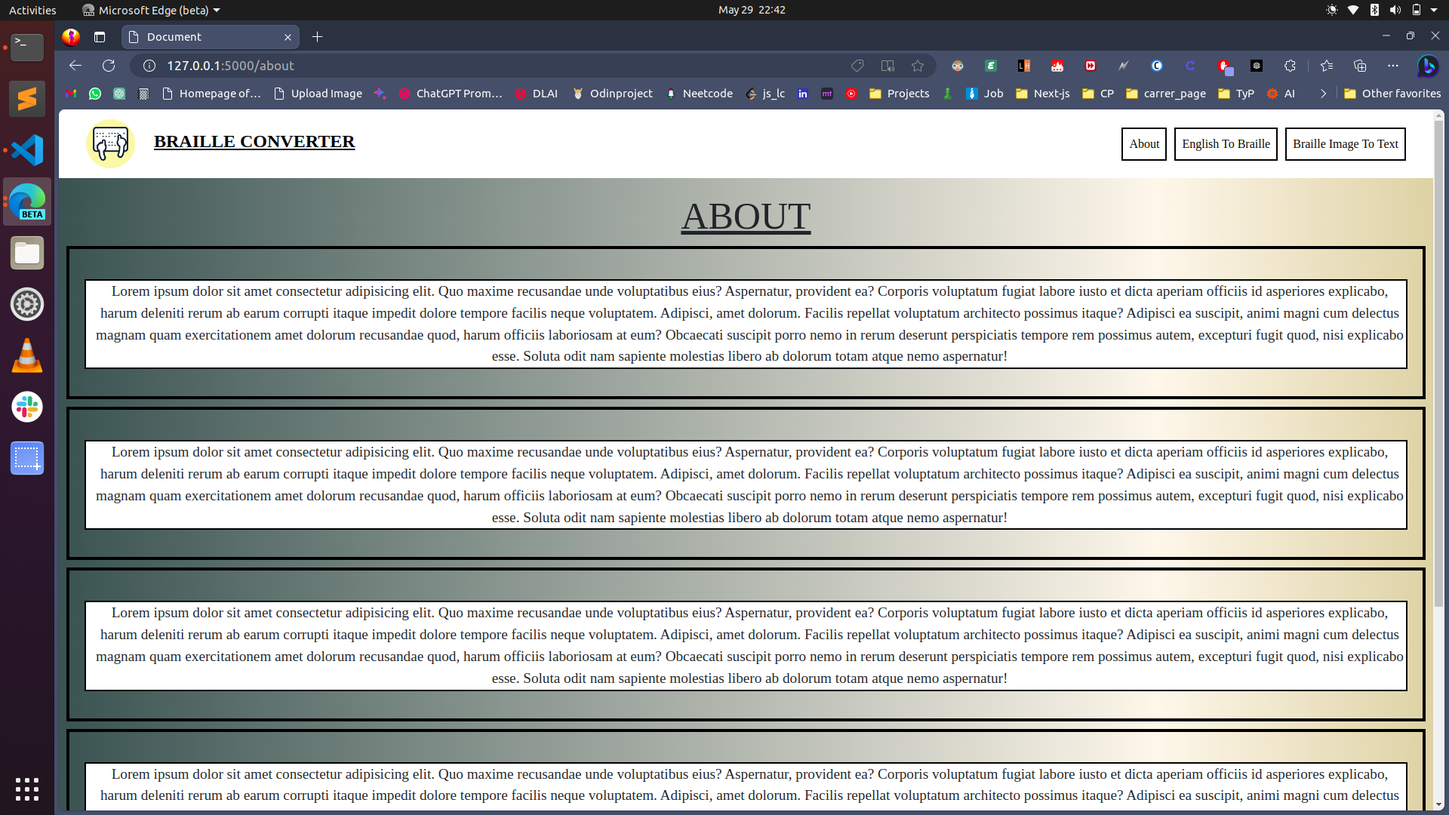
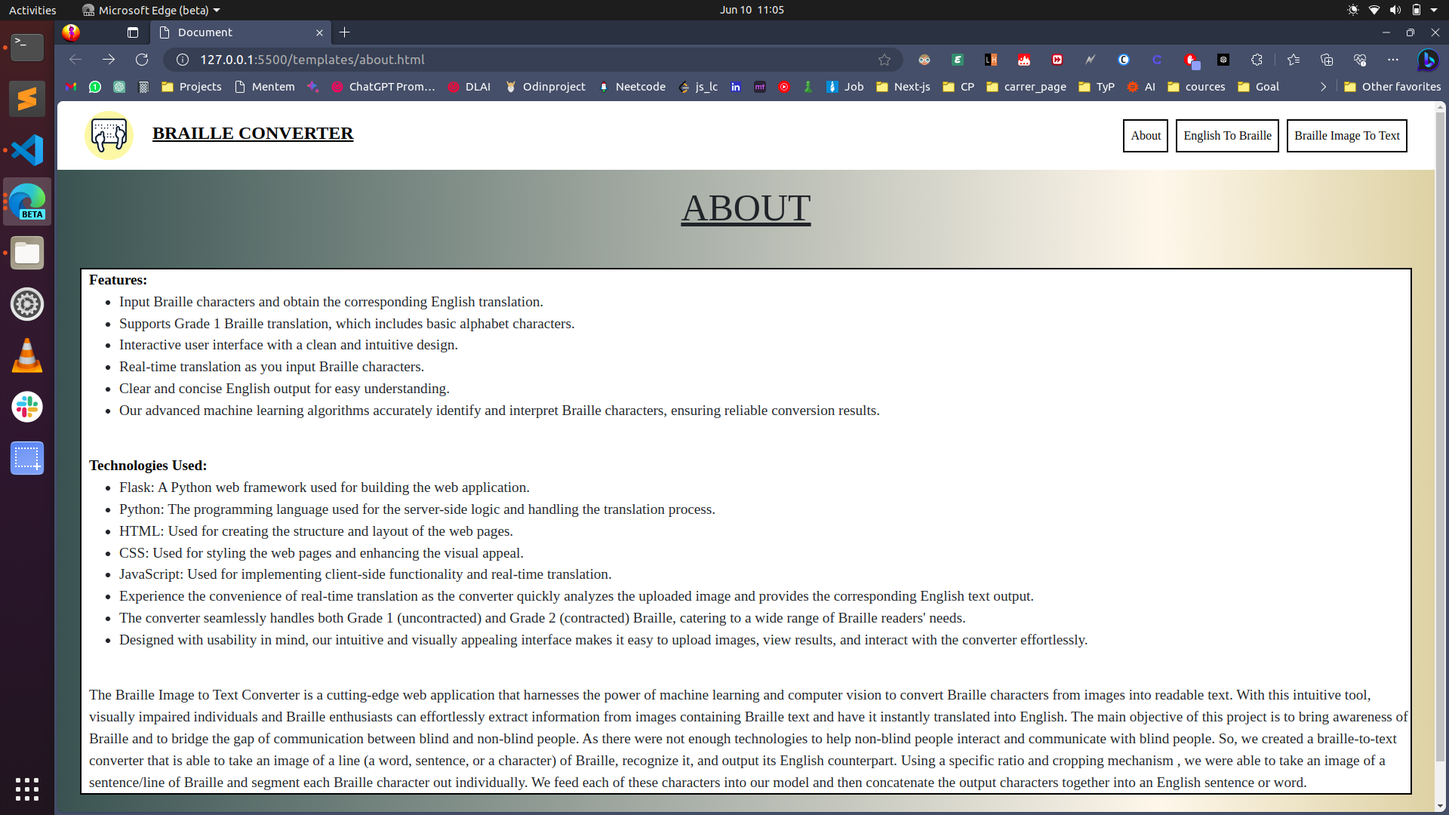
changes-in-about-done

diff --git a/templates/about.html b/templates/about.html
@@ -1,9 +1,9 @@
 <!DOCTYPE html>
 <html lang="en">
-<head>
-    <meta charset="UTF-8">
-    <meta http-equiv="X-UA-Compatible" content="IE=edge">
-    <meta name="viewport" content="width=device-width, initial-scale=1.0">
+  <head>
+    <meta charset="UTF-8" />
+    <meta http-equiv="X-UA-Compatible" content="IE=edge" />
+    <meta name="viewport" content="width=device-width, initial-scale=1.0" />
     <title>Document</title>
     <link
       rel="stylesheet"
@@ -12,93 +12,253 @@
       crossorigin="anonymous"
     />
     <style>
-        body {
-          font-family: Lucida Console;
-          background: rgb(62, 81, 81);
-          background: linear-gradient(
-            90deg,
-            rgba(62, 81, 81, 1) 0%,
-            rgba(254, 245, 234, 1) 80%,
-            rgba(222, 203, 164, 1) 100%
-          );
-        }
-        .form-control::placeholder {
-          color: rgb(44, 30, 30);
-        }
-        .about{
-            /* font-family: Lucida Console; */
-            
-        }
-      </style>
-</head>
-<body>
+      body {
+        font-family: Lucida Console;
+        background: rgb(62, 81, 81);
+        background: linear-gradient(
+          90deg,
+          rgba(62, 81, 81, 1) 0%,
+          rgba(254, 245, 234, 1) 80%,
+          rgba(222, 203, 164, 1) 100%
+        );
+      }
+      .form-control::placeholder {
+        color: rgb(44, 30, 30);
+      }
+      .about {
+        /* font-family: Lucida Console; */
+      }
+    </style>
+  </head>
+  <body>
     <nav class="navbar navbar-expand-lg" style="background-color: white">
-        <div class="collapse navbar-collapse" id="navbarSupportedContent">
-          <span class="navbar-brand" style="margin-left: 20px; color: black">
-            <svg height="65px" version="1.1" id="Layer_1" xmlns="http://www.w3.org/2000/svg" xmlns:xlink="http://www.w3.org/1999/xlink" viewBox="-73.94 -73.94 517.56 517.56" xml:space="preserve" fill="#000000" stroke="#000000" stroke-width="0.0036968300000000003"><g id="SVGRepo_bgCarrier" stroke-width="0"><rect x="-73.94" y="-73.94" width="517.56" height="517.56" rx="258.78" fill="#ffeba3" strokewidth="0"></rect></g><g id="SVGRepo_tracerCarrier" stroke-linecap="round" stroke-linejoin="round" stroke="#ffffff" stroke-width="2.218098"> <g> <g> <path style="fill:#ffffff;" d="M362.184,39.729c0-13.75-11.25-25-25-25H32.5c-13.75,0-25,11.25-25,25v197.115 c0,13.75,11.25,25,25,25h304.684c13.75,0,25-11.25,25-25V39.729z"></path> <g> <path style="fill:#ffffff;" d="M279.473,171.355c-7.732,0-14-6.268-14-14v-50.877c0-7.732,6.268-14,14-14s14,6.268,14,14v50.877 C293.473,165.088,287.205,171.355,279.473,171.355z"></path> <path style="fill:#ffffff;" d="M287.451,325.621c-4.122,0-8.292-1.105-12.057-3.43c-10.811-6.67-14.166-20.842-7.495-31.65 c4.165-6.75,11.319-24.037,12.433-63.967c0.677-24.277-1.302-44.256-1.321-44.455c-1.274-12.639,7.938-23.918,20.577-25.191 c12.645-1.279,23.917,7.939,25.19,20.578c0.962,9.541,8.637,94.461-17.732,137.191 C302.698,321.742,295.163,325.621,287.451,325.621z"></path> <circle style="fill:#ffffff;" cx="301.895" cy="170.074" r="45.726"></circle> </g> <g> <path style="fill:#ffffff;" d="M113.178,223.232c-7.732,0-14-6.268-14-14v-50.877c0-7.732,6.268-14,14-14s14,6.268,14,14v50.877 C127.178,216.965,120.91,223.232,113.178,223.232z"></path> <path style="fill:#ffffff;" d="M105.199,354.955c-7.713,0-15.247-3.879-19.595-10.924 C59.001,300.92,66.972,235.848,67.969,228.568c1.724-12.584,13.333-21.395,25.907-19.666 c12.573,1.721,21.374,13.301,19.672,25.873l0,0c-2.048,15.301-4.027,60.418,11.203,85.1c6.671,10.809,3.315,24.98-7.495,31.65 C113.492,353.848,109.32,354.955,105.199,354.955z"></path> <circle style="fill:#ffffff;" cx="90.756" cy="221.951" r="45.726"></circle> </g> </g> <path style="fill:#071C2C;" d="M137.684,99.828c-3.875,0-7.018,3.143-7.018,7.018s3.143,7.018,7.018,7.018s7.018-3.143,7.018-7.018 S141.559,99.828,137.684,99.828z M169.123,194.145c-3.877,0-7.018,3.143-7.018,7.016c0,3.877,3.141,7.02,7.018,7.02 c3.875,0,7.018-3.143,7.018-7.02C176.141,197.287,172.998,194.145,169.123,194.145z M106.244,68.391 c-3.875,0-7.016,3.143-7.016,7.016c0,3.877,3.141,7.02,7.016,7.02c3.877,0,7.02-3.143,7.02-7.02 C113.264,71.533,110.121,68.391,106.244,68.391z M43.367,99.828c-3.875,0-7.018,3.143-7.018,7.018s3.143,7.018,7.018,7.018 s7.018-3.143,7.018-7.018S47.242,99.828,43.367,99.828z M106.244,99.828c-3.875,0-7.016,3.143-7.016,7.018s3.141,7.018,7.016,7.018 c3.877,0,7.02-3.143,7.02-7.018S110.121,99.828,106.244,99.828z M169.123,162.705c-3.877,0-7.018,3.143-7.018,7.018 s3.141,7.018,7.018,7.018c3.875,0,7.018-3.143,7.018-7.018S172.998,162.705,169.123,162.705z M74.807,68.391 c-3.877,0-7.018,3.143-7.018,7.016c0,3.877,3.141,7.02,7.018,7.02c3.875,0,7.018-3.143,7.018-7.02 C81.824,71.533,78.682,68.391,74.807,68.391z M43.367,68.391c-3.875,0-7.018,3.143-7.018,7.016c0,3.877,3.143,7.02,7.018,7.02 s7.018-3.143,7.018-7.02C50.385,71.533,47.242,68.391,43.367,68.391z M232,68.391c-3.875,0-7.018,3.143-7.018,7.016 c0,3.877,3.143,7.02,7.018,7.02s7.018-3.143,7.018-7.02C239.018,71.533,235.875,68.391,232,68.391z M263.439,68.391 c-3.877,0-7.018,3.143-7.018,7.016c0,3.877,3.141,7.02,7.018,7.02c3.875,0,7.018-3.143,7.018-7.02 C270.457,71.533,267.314,68.391,263.439,68.391z M232,99.828c-3.875,0-7.018,3.143-7.018,7.018s3.143,7.018,7.018,7.018 s7.018-3.143,7.018-7.018S235.875,99.828,232,99.828z M337.184,7.229H32.5C14.579,7.229,0,21.808,0,39.729v197.115 c0,17.921,14.579,32.5,32.5,32.5h26.271c0.912,23.892,5.486,54.378,20.45,78.626c5.598,9.07,15.309,14.485,25.978,14.485 c5.643,0,11.174-1.572,15.995-4.547c6.934-4.277,11.785-11,13.663-18.928c1.877-7.928,0.555-16.112-3.724-23.044 c-6.294-10.198-10.204-26.577-11.21-46.593h148.011c-2.321,9.585-4.893,14.786-6.417,17.258 c-4.279,6.933-5.602,15.117-3.725,23.045c1.878,7.928,6.729,14.65,13.661,18.927c4.819,2.976,10.352,4.548,15.997,4.548 c10.669,0,20.38-5.415,25.978-14.485c8.423-13.649,13.582-31.1,16.638-49.292h7.117c17.921,0,32.5-14.579,32.5-32.5V39.729 C369.684,21.808,355.104,7.229,337.184,7.229z M108.665,255.725c-2.486,1.321-4.022,3.923-3.979,6.738 c0.283,18.331,2.887,43.855,13.683,61.352c2.174,3.522,2.846,7.681,1.892,11.71c-0.954,4.028-3.42,7.444-6.943,9.618 c-2.451,1.513-5.259,2.313-8.118,2.313c-5.428,0-10.367-2.752-13.212-7.362c-15.057-24.398-18.317-56.796-18.401-79.678 c-0.01-2.544-1.307-4.909-3.447-6.283c-11.025-7.081-17.608-19.111-17.608-32.181c0-21.077,17.147-38.225,38.226-38.225 c2.325,0,4.696,0.222,7.049,0.66c2.19,0.41,4.451-0.179,6.166-1.604s2.707-3.539,2.707-5.769v-18.658c0-3.584,2.916-6.5,6.5-6.5 s6.5,2.916,6.5,6.5v35.958c0,1.64,0.537,3.233,1.529,4.538c5.086,6.692,7.774,14.68,7.774,23.1 C128.981,236.12,121.196,249.062,108.665,255.725z M322.443,202.299c-2.196,1.403-3.506,3.846-3.46,6.451 c0.798,45.345-5.709,81.572-18.32,102.009c-2.845,4.61-7.784,7.362-13.212,7.362c-2.86,0-5.667-0.799-8.118-2.313 c-3.523-2.174-5.989-5.59-6.943-9.618c-0.954-4.029-0.282-8.188,1.893-11.711c5.57-9.028,12.443-28.102,13.547-67.696 c0.147-5.297,0.181-10.829,0.099-16.441c-0.04-2.731-1.562-5.226-3.973-6.51c-12.513-6.667-20.286-19.603-20.286-33.758 c0-8.42,2.688-16.407,7.774-23.1c0.992-1.305,1.529-2.898,1.529-4.538v-35.958c0-3.584,2.916-6.5,6.5-6.5s6.5,2.916,6.5,6.5v18.658 c0,2.229,0.992,4.344,2.707,5.769s3.979,2.012,6.166,1.604c2.353-0.438,4.724-0.66,7.049-0.66 c21.078,0,38.226,17.147,38.226,38.225C340.12,183.177,333.512,195.224,322.443,202.299z M354.684,236.844 c0,9.649-7.851,17.5-17.5,17.5h-5.063c1.57-14.509,2.021-28.96,1.912-41.851c11.479-8.683,18.858-21.492,20.65-35.666v60.017 H354.684z M354.684,163.375c-3.343-26.492-26.211-46.99-53.711-46.518v-6.543c0.584-1.024,0.922-2.206,0.922-3.469 c0-1.485-0.465-2.861-1.252-3.996c-1.733-10.13-10.554-17.871-21.17-17.871c-10.276,0-18.88,7.251-20.993,16.902 c-1.271,1.271-2.058,3.026-2.058,4.965c0,1.664,0.582,3.191,1.551,4.395v28.772c-6.096,8.871-9.304,19.209-9.304,30.062 c0,10.295,2.956,20.122,8.257,28.486c-0.322,0.805-0.504,1.681-0.504,2.6c0,3.877,3.141,7.02,7.018,7.02 c0.408,0,0.807-0.042,1.196-0.109c2.526,2.476,5.305,4.727,8.333,6.686c0.016,3.957-0.029,7.847-0.134,11.609 c-0.31,11.11-1.098,20.339-2.139,27.979H132.972c7.013-9.132,11.01-20.44,11.01-32.393c0-5.193-0.742-10.266-2.177-15.118 c1.753-1.276,2.896-3.339,2.896-5.673c0-3.873-3.143-7.016-7.018-7.016c-0.499,0-0.985,0.054-1.455,0.153 c-0.496-0.813-1.008-1.618-1.551-2.408v-33.534c0-11.855-9.645-21.5-21.5-21.5s-21.5,9.645-21.5,21.5v10.379 c-0.308-0.005-0.615-0.008-0.922-0.008c-3.049,0-6.033,0.271-8.943,0.767c-0.122-3.769-3.209-6.788-7.006-6.788 c-3.877,0-7.018,3.143-7.018,7.018c0,1.373,0.4,2.649,1.081,3.73c-9.827,4.453-18.079,11.794-23.641,20.949 c-0.594-0.163-1.216-0.258-1.862-0.258c-3.875,0-7.018,3.143-7.018,7.016c0,2.511,1.322,4.707,3.303,5.947 c-1.372,4.715-2.122,9.692-2.122,14.844c0,11.938,3.957,23.24,10.999,32.393H32.5c-9.649,0-17.5-7.851-17.5-17.5V39.729 c0-9.649,7.851-17.5,17.5-17.5h304.684c9.649,0,17.5,7.851,17.5,17.5V163.375z M169.123,99.828c-3.877,0-7.018,3.143-7.018,7.018 s3.141,7.018,7.018,7.018c3.875,0,7.018-3.143,7.018-7.018S172.998,99.828,169.123,99.828z M326.316,68.391 c-3.875,0-7.018,3.143-7.018,7.016c0,3.877,3.143,7.02,7.018,7.02s7.018-3.143,7.018-7.02 C333.334,71.533,330.191,68.391,326.316,68.391z M200.561,194.145c-3.875,0-7.016,3.143-7.016,7.016c0,3.877,3.141,7.02,7.016,7.02 c3.877,0,7.018-3.143,7.018-7.02C207.578,197.287,204.438,194.145,200.561,194.145z M169.123,68.391 c-3.877,0-7.018,3.143-7.018,7.016c0,3.877,3.141,7.02,7.018,7.02c3.875,0,7.018-3.143,7.018-7.02 C176.141,71.533,172.998,68.391,169.123,68.391z M200.561,162.705c-3.875,0-7.016,3.143-7.016,7.018s3.141,7.018,7.016,7.018 c3.877,0,7.018-3.143,7.018-7.018S204.438,162.705,200.561,162.705z M200.561,68.391c-3.875,0-7.016,3.143-7.016,7.016 c0,3.877,3.141,7.02,7.016,7.02c3.877,0,7.018-3.143,7.018-7.02C207.578,71.533,204.438,68.391,200.561,68.391z M232,194.145 c-3.875,0-7.018,3.143-7.018,7.016c0,3.877,3.143,7.02,7.018,7.02s7.018-3.143,7.018-7.02 C239.018,197.287,235.875,194.145,232,194.145z"></path> </g> </g><g id="SVGRepo_iconCarrier"> <g> <g> <path style="fill:#ffffff;" d="M362.184,39.729c0-13.75-11.25-25-25-25H32.5c-13.75,0-25,11.25-25,25v197.115 c0,13.75,11.25,25,25,25h304.684c13.75,0,25-11.25,25-25V39.729z"></path> <g> <path style="fill:#ffffff;" d="M279.473,171.355c-7.732,0-14-6.268-14-14v-50.877c0-7.732,6.268-14,14-14s14,6.268,14,14v50.877 C293.473,165.088,287.205,171.355,279.473,171.355z"></path> <path style="fill:#ffffff;" d="M287.451,325.621c-4.122,0-8.292-1.105-12.057-3.43c-10.811-6.67-14.166-20.842-7.495-31.65 c4.165-6.75,11.319-24.037,12.433-63.967c0.677-24.277-1.302-44.256-1.321-44.455c-1.274-12.639,7.938-23.918,20.577-25.191 c12.645-1.279,23.917,7.939,25.19,20.578c0.962,9.541,8.637,94.461-17.732,137.191 C302.698,321.742,295.163,325.621,287.451,325.621z"></path> <circle style="fill:#ffffff;" cx="301.895" cy="170.074" r="45.726"></circle> </g> <g> <path style="fill:#ffffff;" d="M113.178,223.232c-7.732,0-14-6.268-14-14v-50.877c0-7.732,6.268-14,14-14s14,6.268,14,14v50.877 C127.178,216.965,120.91,223.232,113.178,223.232z"></path> <path style="fill:#ffffff;" d="M105.199,354.955c-7.713,0-15.247-3.879-19.595-10.924 C59.001,300.92,66.972,235.848,67.969,228.568c1.724-12.584,13.333-21.395,25.907-19.666 c12.573,1.721,21.374,13.301,19.672,25.873l0,0c-2.048,15.301-4.027,60.418,11.203,85.1c6.671,10.809,3.315,24.98-7.495,31.65 C113.492,353.848,109.32,354.955,105.199,354.955z"></path> <circle style="fill:#ffffff;" cx="90.756" cy="221.951" r="45.726"></circle> </g> </g> <path style="fill:#071C2C;" d="M137.684,99.828c-3.875,0-7.018,3.143-7.018,7.018s3.143,7.018,7.018,7.018s7.018-3.143,7.018-7.018 S141.559,99.828,137.684,99.828z M169.123,194.145c-3.877,0-7.018,3.143-7.018,7.016c0,3.877,3.141,7.02,7.018,7.02 c3.875,0,7.018-3.143,7.018-7.02C176.141,197.287,172.998,194.145,169.123,194.145z M106.244,68.391 c-3.875,0-7.016,3.143-7.016,7.016c0,3.877,3.141,7.02,7.016,7.02c3.877,0,7.02-3.143,7.02-7.02 C113.264,71.533,110.121,68.391,106.244,68.391z M43.367,99.828c-3.875,0-7.018,3.143-7.018,7.018s3.143,7.018,7.018,7.018 s7.018-3.143,7.018-7.018S47.242,99.828,43.367,99.828z M106.244,99.828c-3.875,0-7.016,3.143-7.016,7.018s3.141,7.018,7.016,7.018 c3.877,0,7.02-3.143,7.02-7.018S110.121,99.828,106.244,99.828z M169.123,162.705c-3.877,0-7.018,3.143-7.018,7.018 s3.141,7.018,7.018,7.018c3.875,0,7.018-3.143,7.018-7.018S172.998,162.705,169.123,162.705z M74.807,68.391 c-3.877,0-7.018,3.143-7.018,7.016c0,3.877,3.141,7.02,7.018,7.02c3.875,0,7.018-3.143,7.018-7.02 C81.824,71.533,78.682,68.391,74.807,68.391z M43.367,68.391c-3.875,0-7.018,3.143-7.018,7.016c0,3.877,3.143,7.02,7.018,7.02 s7.018-3.143,7.018-7.02C50.385,71.533,47.242,68.391,43.367,68.391z M232,68.391c-3.875,0-7.018,3.143-7.018,7.016 c0,3.877,3.143,7.02,7.018,7.02s7.018-3.143,7.018-7.02C239.018,71.533,235.875,68.391,232,68.391z M263.439,68.391 c-3.877,0-7.018,3.143-7.018,7.016c0,3.877,3.141,7.02,7.018,7.02c3.875,0,7.018-3.143,7.018-7.02 C270.457,71.533,267.314,68.391,263.439,68.391z M232,99.828c-3.875,0-7.018,3.143-7.018,7.018s3.143,7.018,7.018,7.018 s7.018-3.143,7.018-7.018S235.875,99.828,232,99.828z M337.184,7.229H32.5C14.579,7.229,0,21.808,0,39.729v197.115 c0,17.921,14.579,32.5,32.5,32.5h26.271c0.912,23.892,5.486,54.378,20.45,78.626c5.598,9.07,15.309,14.485,25.978,14.485 c5.643,0,11.174-1.572,15.995-4.547c6.934-4.277,11.785-11,13.663-18.928c1.877-7.928,0.555-16.112-3.724-23.044 c-6.294-10.198-10.204-26.577-11.21-46.593h148.011c-2.321,9.585-4.893,14.786-6.417,17.258 c-4.279,6.933-5.602,15.117-3.725,23.045c1.878,7.928,6.729,14.65,13.661,18.927c4.819,2.976,10.352,4.548,15.997,4.548 c10.669,0,20.38-5.415,25.978-14.485c8.423-13.649,13.582-31.1,16.638-49.292h7.117c17.921,0,32.5-14.579,32.5-32.5V39.729 C369.684,21.808,355.104,7.229,337.184,7.229z M108.665,255.725c-2.486,1.321-4.022,3.923-3.979,6.738 c0.283,18.331,2.887,43.855,13.683,61.352c2.174,3.522,2.846,7.681,1.892,11.71c-0.954,4.028-3.42,7.444-6.943,9.618 c-2.451,1.513-5.259,2.313-8.118,2.313c-5.428,0-10.367-2.752-13.212-7.362c-15.057-24.398-18.317-56.796-18.401-79.678 c-0.01-2.544-1.307-4.909-3.447-6.283c-11.025-7.081-17.608-19.111-17.608-32.181c0-21.077,17.147-38.225,38.226-38.225 c2.325,0,4.696,0.222,7.049,0.66c2.19,0.41,4.451-0.179,6.166-1.604s2.707-3.539,2.707-5.769v-18.658c0-3.584,2.916-6.5,6.5-6.5 s6.5,2.916,6.5,6.5v35.958c0,1.64,0.537,3.233,1.529,4.538c5.086,6.692,7.774,14.68,7.774,23.1 C128.981,236.12,121.196,249.062,108.665,255.725z M322.443,202.299c-2.196,1.403-3.506,3.846-3.46,6.451 c0.798,45.345-5.709,81.572-18.32,102.009c-2.845,4.61-7.784,7.362-13.212,7.362c-2.86,0-5.667-0.799-8.118-2.313 c-3.523-2.174-5.989-5.59-6.943-9.618c-0.954-4.029-0.282-8.188,1.893-11.711c5.57-9.028,12.443-28.102,13.547-67.696 c0.147-5.297,0.181-10.829,0.099-16.441c-0.04-2.731-1.562-5.226-3.973-6.51c-12.513-6.667-20.286-19.603-20.286-33.758 c0-8.42,2.688-16.407,7.774-23.1c0.992-1.305,1.529-2.898,1.529-4.538v-35.958c0-3.584,2.916-6.5,6.5-6.5s6.5,2.916,6.5,6.5v18.658 c0,2.229,0.992,4.344,2.707,5.769s3.979,2.012,6.166,1.604c2.353-0.438,4.724-0.66,7.049-0.66 c21.078,0,38.226,17.147,38.226,38.225C340.12,183.177,333.512,195.224,322.443,202.299z M354.684,236.844 c0,9.649-7.851,17.5-17.5,17.5h-5.063c1.57-14.509,2.021-28.96,1.912-41.851c11.479-8.683,18.858-21.492,20.65-35.666v60.017 H354.684z M354.684,163.375c-3.343-26.492-26.211-46.99-53.711-46.518v-6.543c0.584-1.024,0.922-2.206,0.922-3.469 c0-1.485-0.465-2.861-1.252-3.996c-1.733-10.13-10.554-17.871-21.17-17.871c-10.276,0-18.88,7.251-20.993,16.902 c-1.271,1.271-2.058,3.026-2.058,4.965c0,1.664,0.582,3.191,1.551,4.395v28.772c-6.096,8.871-9.304,19.209-9.304,30.062 c0,10.295,2.956,20.122,8.257,28.486c-0.322,0.805-0.504,1.681-0.504,2.6c0,3.877,3.141,7.02,7.018,7.02 c0.408,0,0.807-0.042,1.196-0.109c2.526,2.476,5.305,4.727,8.333,6.686c0.016,3.957-0.029,7.847-0.134,11.609 c-0.31,11.11-1.098,20.339-2.139,27.979H132.972c7.013-9.132,11.01-20.44,11.01-32.393c0-5.193-0.742-10.266-2.177-15.118 c1.753-1.276,2.896-3.339,2.896-5.673c0-3.873-3.143-7.016-7.018-7.016c-0.499,0-0.985,0.054-1.455,0.153 c-0.496-0.813-1.008-1.618-1.551-2.408v-33.534c0-11.855-9.645-21.5-21.5-21.5s-21.5,9.645-21.5,21.5v10.379 c-0.308-0.005-0.615-0.008-0.922-0.008c-3.049,0-6.033,0.271-8.943,0.767c-0.122-3.769-3.209-6.788-7.006-6.788 c-3.877,0-7.018,3.143-7.018,7.018c0,1.373,0.4,2.649,1.081,3.73c-9.827,4.453-18.079,11.794-23.641,20.949 c-0.594-0.163-1.216-0.258-1.862-0.258c-3.875,0-7.018,3.143-7.018,7.016c0,2.511,1.322,4.707,3.303,5.947 c-1.372,4.715-2.122,9.692-2.122,14.844c0,11.938,3.957,23.24,10.999,32.393H32.5c-9.649,0-17.5-7.851-17.5-17.5V39.729 c0-9.649,7.851-17.5,17.5-17.5h304.684c9.649,0,17.5,7.851,17.5,17.5V163.375z M169.123,99.828c-3.877,0-7.018,3.143-7.018,7.018 s3.141,7.018,7.018,7.018c3.875,0,7.018-3.143,7.018-7.018S172.998,99.828,169.123,99.828z M326.316,68.391 c-3.875,0-7.018,3.143-7.018,7.016c0,3.877,3.143,7.02,7.018,7.02s7.018-3.143,7.018-7.02 C333.334,71.533,330.191,68.391,326.316,68.391z M200.561,194.145c-3.875,0-7.016,3.143-7.016,7.016c0,3.877,3.141,7.02,7.016,7.02 c3.877,0,7.018-3.143,7.018-7.02C207.578,197.287,204.438,194.145,200.561,194.145z M169.123,68.391 c-3.877,0-7.018,3.143-7.018,7.016c0,3.877,3.141,7.02,7.018,7.02c3.875,0,7.018-3.143,7.018-7.02 C176.141,71.533,172.998,68.391,169.123,68.391z M200.561,162.705c-3.875,0-7.016,3.143-7.016,7.018s3.141,7.018,7.016,7.018 c3.877,0,7.018-3.143,7.018-7.018S204.438,162.705,200.561,162.705z M200.561,68.391c-3.875,0-7.016,3.143-7.016,7.016 c0,3.877,3.141,7.02,7.016,7.02c3.877,0,7.018-3.143,7.018-7.02C207.578,71.533,204.438,68.391,200.561,68.391z M232,194.145 c-3.875,0-7.018,3.143-7.018,7.016c0,3.877,3.143,7.02,7.018,7.02s7.018-3.143,7.018-7.02 C239.018,197.287,235.875,194.145,232,194.145z"></path> </g> </g></svg>
-            <u
-              style="
-                font-weight: bold;
-                font-size: larger;
-                margin-left: 20px;
-                text-transform: uppercase;
-              "
-              >Braille Converter</u
-            ></span
+      <div class="collapse navbar-collapse" id="navbarSupportedContent">
+        <span class="navbar-brand" style="margin-left: 20px; color: black">
+          <svg
+            height="65px"
+            version="1.1"
+            id="Layer_1"
+            xmlns="http://www.w3.org/2000/svg"
+            xmlns:xlink="http://www.w3.org/1999/xlink"
+            viewBox="-73.94 -73.94 517.56 517.56"
+            xml:space="preserve"
+            fill="#000000"
+            stroke="#000000"
+            stroke-width="0.0036968300000000003"
           >
-          <ul class="navbar-nav ml-auto" style="margin-right: 10px">
-            <li class="nav-item active" style="margin-right: 10px">
-              <a
-                class="nav-link"
-                style="color: black; border: 2px solid black"
-                href="/about"
-                >About</a
-              >
-            </li>
-            <li
-              class="nav-item active"
-              style="margin-right: 10px; border: 2px solid black"
+            <g id="SVGRepo_bgCarrier" stroke-width="0">
+              <rect
+                x="-73.94"
+                y="-73.94"
+                width="517.56"
+                height="517.56"
+                rx="258.78"
+                fill="#ffeba3"
+                strokewidth="0"
+              ></rect>
+            </g>
+            <g
+              id="SVGRepo_tracerCarrier"
+              stroke-linecap="round"
+              stroke-linejoin="round"
+              stroke="#ffffff"
+              stroke-width="2.218098"
             >
-              <a class="nav-link" style="color: black" href="/home"
-                >English To Braille <span class="sr-only"></span
-              ></a>
-            </li>
-            <li
-              class="nav-item active"
-              style="margin-right: 10px; border: 2px solid black"
+              <g>
+                <g>
+                  <path
+                    style="fill: #ffffff"
+                    d="M362.184,39.729c0-13.75-11.25-25-25-25H32.5c-13.75,0-25,11.25-25,25v197.115 c0,13.75,11.25,25,25,25h304.684c13.75,0,25-11.25,25-25V39.729z"
+                  ></path>
+                  <g>
+                    <path
+                      style="fill: #ffffff"
+                      d="M279.473,171.355c-7.732,0-14-6.268-14-14v-50.877c0-7.732,6.268-14,14-14s14,6.268,14,14v50.877 C293.473,165.088,287.205,171.355,279.473,171.355z"
+                    ></path>
+                    <path
+                      style="fill: #ffffff"
+                      d="M287.451,325.621c-4.122,0-8.292-1.105-12.057-3.43c-10.811-6.67-14.166-20.842-7.495-31.65 c4.165-6.75,11.319-24.037,12.433-63.967c0.677-24.277-1.302-44.256-1.321-44.455c-1.274-12.639,7.938-23.918,20.577-25.191 c12.645-1.279,23.917,7.939,25.19,20.578c0.962,9.541,8.637,94.461-17.732,137.191 C302.698,321.742,295.163,325.621,287.451,325.621z"
+                    ></path>
+                    <circle
+                      style="fill: #ffffff"
+                      cx="301.895"
+                      cy="170.074"
+                      r="45.726"
+                    ></circle>
+                  </g>
+                  <g>
+                    <path
+                      style="fill: #ffffff"
+                      d="M113.178,223.232c-7.732,0-14-6.268-14-14v-50.877c0-7.732,6.268-14,14-14s14,6.268,14,14v50.877 C127.178,216.965,120.91,223.232,113.178,223.232z"
+                    ></path>
+                    <path
+                      style="fill: #ffffff"
+                      d="M105.199,354.955c-7.713,0-15.247-3.879-19.595-10.924 C59.001,300.92,66.972,235.848,67.969,228.568c1.724-12.584,13.333-21.395,25.907-19.666 c12.573,1.721,21.374,13.301,19.672,25.873l0,0c-2.048,15.301-4.027,60.418,11.203,85.1c6.671,10.809,3.315,24.98-7.495,31.65 C113.492,353.848,109.32,354.955,105.199,354.955z"
+                    ></path>
+                    <circle
+                      style="fill: #ffffff"
+                      cx="90.756"
+                      cy="221.951"
+                      r="45.726"
+                    ></circle>
+                  </g>
+                </g>
+                <path
+                  style="fill: #071c2c"
+                  d="M137.684,99.828c-3.875,0-7.018,3.143-7.018,7.018s3.143,7.018,7.018,7.018s7.018-3.143,7.018-7.018 S141.559,99.828,137.684,99.828z M169.123,194.145c-3.877,0-7.018,3.143-7.018,7.016c0,3.877,3.141,7.02,7.018,7.02 c3.875,0,7.018-3.143,7.018-7.02C176.141,197.287,172.998,194.145,169.123,194.145z M106.244,68.391 c-3.875,0-7.016,3.143-7.016,7.016c0,3.877,3.141,7.02,7.016,7.02c3.877,0,7.02-3.143,7.02-7.02 C113.264,71.533,110.121,68.391,106.244,68.391z M43.367,99.828c-3.875,0-7.018,3.143-7.018,7.018s3.143,7.018,7.018,7.018 s7.018-3.143,7.018-7.018S47.242,99.828,43.367,99.828z M106.244,99.828c-3.875,0-7.016,3.143-7.016,7.018s3.141,7.018,7.016,7.018 c3.877,0,7.02-3.143,7.02-7.018S110.121,99.828,106.244,99.828z M169.123,162.705c-3.877,0-7.018,3.143-7.018,7.018 s3.141,7.018,7.018,7.018c3.875,0,7.018-3.143,7.018-7.018S172.998,162.705,169.123,162.705z M74.807,68.391 c-3.877,0-7.018,3.143-7.018,7.016c0,3.877,3.141,7.02,7.018,7.02c3.875,0,7.018-3.143,7.018-7.02 C81.824,71.533,78.682,68.391,74.807,68.391z M43.367,68.391c-3.875,0-7.018,3.143-7.018,7.016c0,3.877,3.143,7.02,7.018,7.02 s7.018-3.143,7.018-7.02C50.385,71.533,47.242,68.391,43.367,68.391z M232,68.391c-3.875,0-7.018,3.143-7.018,7.016 c0,3.877,3.143,7.02,7.018,7.02s7.018-3.143,7.018-7.02C239.018,71.533,235.875,68.391,232,68.391z M263.439,68.391 c-3.877,0-7.018,3.143-7.018,7.016c0,3.877,3.141,7.02,7.018,7.02c3.875,0,7.018-3.143,7.018-7.02 C270.457,71.533,267.314,68.391,263.439,68.391z M232,99.828c-3.875,0-7.018,3.143-7.018,7.018s3.143,7.018,7.018,7.018 s7.018-3.143,7.018-7.018S235.875,99.828,232,99.828z M337.184,7.229H32.5C14.579,7.229,0,21.808,0,39.729v197.115 c0,17.921,14.579,32.5,32.5,32.5h26.271c0.912,23.892,5.486,54.378,20.45,78.626c5.598,9.07,15.309,14.485,25.978,14.485 c5.643,0,11.174-1.572,15.995-4.547c6.934-4.277,11.785-11,13.663-18.928c1.877-7.928,0.555-16.112-3.724-23.044 c-6.294-10.198-10.204-26.577-11.21-46.593h148.011c-2.321,9.585-4.893,14.786-6.417,17.258 c-4.279,6.933-5.602,15.117-3.725,23.045c1.878,7.928,6.729,14.65,13.661,18.927c4.819,2.976,10.352,4.548,15.997,4.548 c10.669,0,20.38-5.415,25.978-14.485c8.423-13.649,13.582-31.1,16.638-49.292h7.117c17.921,0,32.5-14.579,32.5-32.5V39.729 C369.684,21.808,355.104,7.229,337.184,7.229z M108.665,255.725c-2.486,1.321-4.022,3.923-3.979,6.738 c0.283,18.331,2.887,43.855,13.683,61.352c2.174,3.522,2.846,7.681,1.892,11.71c-0.954,4.028-3.42,7.444-6.943,9.618 c-2.451,1.513-5.259,2.313-8.118,2.313c-5.428,0-10.367-2.752-13.212-7.362c-15.057-24.398-18.317-56.796-18.401-79.678 c-0.01-2.544-1.307-4.909-3.447-6.283c-11.025-7.081-17.608-19.111-17.608-32.181c0-21.077,17.147-38.225,38.226-38.225 c2.325,0,4.696,0.222,7.049,0.66c2.19,0.41,4.451-0.179,6.166-1.604s2.707-3.539,2.707-5.769v-18.658c0-3.584,2.916-6.5,6.5-6.5 s6.5,2.916,6.5,6.5v35.958c0,1.64,0.537,3.233,1.529,4.538c5.086,6.692,7.774,14.68,7.774,23.1 C128.981,236.12,121.196,249.062,108.665,255.725z M322.443,202.299c-2.196,1.403-3.506,3.846-3.46,6.451 c0.798,45.345-5.709,81.572-18.32,102.009c-2.845,4.61-7.784,7.362-13.212,7.362c-2.86,0-5.667-0.799-8.118-2.313 c-3.523-2.174-5.989-5.59-6.943-9.618c-0.954-4.029-0.282-8.188,1.893-11.711c5.57-9.028,12.443-28.102,13.547-67.696 c0.147-5.297,0.181-10.829,0.099-16.441c-0.04-2.731-1.562-5.226-3.973-6.51c-12.513-6.667-20.286-19.603-20.286-33.758 c0-8.42,2.688-16.407,7.774-23.1c0.992-1.305,1.529-2.898,1.529-4.538v-35.958c0-3.584,2.916-6.5,6.5-6.5s6.5,2.916,6.5,6.5v18.658 c0,2.229,0.992,4.344,2.707,5.769s3.979,2.012,6.166,1.604c2.353-0.438,4.724-0.66,7.049-0.66 c21.078,0,38.226,17.147,38.226,38.225C340.12,183.177,333.512,195.224,322.443,202.299z M354.684,236.844 c0,9.649-7.851,17.5-17.5,17.5h-5.063c1.57-14.509,2.021-28.96,1.912-41.851c11.479-8.683,18.858-21.492,20.65-35.666v60.017 H354.684z M354.684,163.375c-3.343-26.492-26.211-46.99-53.711-46.518v-6.543c0.584-1.024,0.922-2.206,0.922-3.469 c0-1.485-0.465-2.861-1.252-3.996c-1.733-10.13-10.554-17.871-21.17-17.871c-10.276,0-18.88,7.251-20.993,16.902 c-1.271,1.271-2.058,3.026-2.058,4.965c0,1.664,0.582,3.191,1.551,4.395v28.772c-6.096,8.871-9.304,19.209-9.304,30.062 c0,10.295,2.956,20.122,8.257,28.486c-0.322,0.805-0.504,1.681-0.504,2.6c0,3.877,3.141,7.02,7.018,7.02 c0.408,0,0.807-0.042,1.196-0.109c2.526,2.476,5.305,4.727,8.333,6.686c0.016,3.957-0.029,7.847-0.134,11.609 c-0.31,11.11-1.098,20.339-2.139,27.979H132.972c7.013-9.132,11.01-20.44,11.01-32.393c0-5.193-0.742-10.266-2.177-15.118 c1.753-1.276,2.896-3.339,2.896-5.673c0-3.873-3.143-7.016-7.018-7.016c-0.499,0-0.985,0.054-1.455,0.153 c-0.496-0.813-1.008-1.618-1.551-2.408v-33.534c0-11.855-9.645-21.5-21.5-21.5s-21.5,9.645-21.5,21.5v10.379 c-0.308-0.005-0.615-0.008-0.922-0.008c-3.049,0-6.033,0.271-8.943,0.767c-0.122-3.769-3.209-6.788-7.006-6.788 c-3.877,0-7.018,3.143-7.018,7.018c0,1.373,0.4,2.649,1.081,3.73c-9.827,4.453-18.079,11.794-23.641,20.949 c-0.594-0.163-1.216-0.258-1.862-0.258c-3.875,0-7.018,3.143-7.018,7.016c0,2.511,1.322,4.707,3.303,5.947 c-1.372,4.715-2.122,9.692-2.122,14.844c0,11.938,3.957,23.24,10.999,32.393H32.5c-9.649,0-17.5-7.851-17.5-17.5V39.729 c0-9.649,7.851-17.5,17.5-17.5h304.684c9.649,0,17.5,7.851,17.5,17.5V163.375z M169.123,99.828c-3.877,0-7.018,3.143-7.018,7.018 s3.141,7.018,7.018,7.018c3.875,0,7.018-3.143,7.018-7.018S172.998,99.828,169.123,99.828z M326.316,68.391 c-3.875,0-7.018,3.143-7.018,7.016c0,3.877,3.143,7.02,7.018,7.02s7.018-3.143,7.018-7.02 C333.334,71.533,330.191,68.391,326.316,68.391z M200.561,194.145c-3.875,0-7.016,3.143-7.016,7.016c0,3.877,3.141,7.02,7.016,7.02 c3.877,0,7.018-3.143,7.018-7.02C207.578,197.287,204.438,194.145,200.561,194.145z M169.123,68.391 c-3.877,0-7.018,3.143-7.018,7.016c0,3.877,3.141,7.02,7.018,7.02c3.875,0,7.018-3.143,7.018-7.02 C176.141,71.533,172.998,68.391,169.123,68.391z M200.561,162.705c-3.875,0-7.016,3.143-7.016,7.018s3.141,7.018,7.016,7.018 c3.877,0,7.018-3.143,7.018-7.018S204.438,162.705,200.561,162.705z M200.561,68.391c-3.875,0-7.016,3.143-7.016,7.016 c0,3.877,3.141,7.02,7.016,7.02c3.877,0,7.018-3.143,7.018-7.02C207.578,71.533,204.438,68.391,200.561,68.391z M232,194.145 c-3.875,0-7.018,3.143-7.018,7.016c0,3.877,3.143,7.02,7.018,7.02s7.018-3.143,7.018-7.02 C239.018,197.287,235.875,194.145,232,194.145z"
+                ></path>
+              </g>
+            </g>
+            <g id="SVGRepo_iconCarrier">
+              <g>
+                <g>
+                  <path
+                    style="fill: #ffffff"
+                    d="M362.184,39.729c0-13.75-11.25-25-25-25H32.5c-13.75,0-25,11.25-25,25v197.115 c0,13.75,11.25,25,25,25h304.684c13.75,0,25-11.25,25-25V39.729z"
+                  ></path>
+                  <g>
+                    <path
+                      style="fill: #ffffff"
+                      d="M279.473,171.355c-7.732,0-14-6.268-14-14v-50.877c0-7.732,6.268-14,14-14s14,6.268,14,14v50.877 C293.473,165.088,287.205,171.355,279.473,171.355z"
+                    ></path>
+                    <path
+                      style="fill: #ffffff"
+                      d="M287.451,325.621c-4.122,0-8.292-1.105-12.057-3.43c-10.811-6.67-14.166-20.842-7.495-31.65 c4.165-6.75,11.319-24.037,12.433-63.967c0.677-24.277-1.302-44.256-1.321-44.455c-1.274-12.639,7.938-23.918,20.577-25.191 c12.645-1.279,23.917,7.939,25.19,20.578c0.962,9.541,8.637,94.461-17.732,137.191 C302.698,321.742,295.163,325.621,287.451,325.621z"
+                    ></path>
+                    <circle
+                      style="fill: #ffffff"
+                      cx="301.895"
+                      cy="170.074"
+                      r="45.726"
+                    ></circle>
+                  </g>
+                  <g>
+                    <path
+                      style="fill: #ffffff"
+                      d="M113.178,223.232c-7.732,0-14-6.268-14-14v-50.877c0-7.732,6.268-14,14-14s14,6.268,14,14v50.877 C127.178,216.965,120.91,223.232,113.178,223.232z"
+                    ></path>
+                    <path
+                      style="fill: #ffffff"
+                      d="M105.199,354.955c-7.713,0-15.247-3.879-19.595-10.924 C59.001,300.92,66.972,235.848,67.969,228.568c1.724-12.584,13.333-21.395,25.907-19.666 c12.573,1.721,21.374,13.301,19.672,25.873l0,0c-2.048,15.301-4.027,60.418,11.203,85.1c6.671,10.809,3.315,24.98-7.495,31.65 C113.492,353.848,109.32,354.955,105.199,354.955z"
+                    ></path>
+                    <circle
+                      style="fill: #ffffff"
+                      cx="90.756"
+                      cy="221.951"
+                      r="45.726"
+                    ></circle>
+                  </g>
+                </g>
+                <path
+                  style="fill: #071c2c"
+                  d="M137.684,99.828c-3.875,0-7.018,3.143-7.018,7.018s3.143,7.018,7.018,7.018s7.018-3.143,7.018-7.018 S141.559,99.828,137.684,99.828z M169.123,194.145c-3.877,0-7.018,3.143-7.018,7.016c0,3.877,3.141,7.02,7.018,7.02 c3.875,0,7.018-3.143,7.018-7.02C176.141,197.287,172.998,194.145,169.123,194.145z M106.244,68.391 c-3.875,0-7.016,3.143-7.016,7.016c0,3.877,3.141,7.02,7.016,7.02c3.877,0,7.02-3.143,7.02-7.02 C113.264,71.533,110.121,68.391,106.244,68.391z M43.367,99.828c-3.875,0-7.018,3.143-7.018,7.018s3.143,7.018,7.018,7.018 s7.018-3.143,7.018-7.018S47.242,99.828,43.367,99.828z M106.244,99.828c-3.875,0-7.016,3.143-7.016,7.018s3.141,7.018,7.016,7.018 c3.877,0,7.02-3.143,7.02-7.018S110.121,99.828,106.244,99.828z M169.123,162.705c-3.877,0-7.018,3.143-7.018,7.018 s3.141,7.018,7.018,7.018c3.875,0,7.018-3.143,7.018-7.018S172.998,162.705,169.123,162.705z M74.807,68.391 c-3.877,0-7.018,3.143-7.018,7.016c0,3.877,3.141,7.02,7.018,7.02c3.875,0,7.018-3.143,7.018-7.02 C81.824,71.533,78.682,68.391,74.807,68.391z M43.367,68.391c-3.875,0-7.018,3.143-7.018,7.016c0,3.877,3.143,7.02,7.018,7.02 s7.018-3.143,7.018-7.02C50.385,71.533,47.242,68.391,43.367,68.391z M232,68.391c-3.875,0-7.018,3.143-7.018,7.016 c0,3.877,3.143,7.02,7.018,7.02s7.018-3.143,7.018-7.02C239.018,71.533,235.875,68.391,232,68.391z M263.439,68.391 c-3.877,0-7.018,3.143-7.018,7.016c0,3.877,3.141,7.02,7.018,7.02c3.875,0,7.018-3.143,7.018-7.02 C270.457,71.533,267.314,68.391,263.439,68.391z M232,99.828c-3.875,0-7.018,3.143-7.018,7.018s3.143,7.018,7.018,7.018 s7.018-3.143,7.018-7.018S235.875,99.828,232,99.828z M337.184,7.229H32.5C14.579,7.229,0,21.808,0,39.729v197.115 c0,17.921,14.579,32.5,32.5,32.5h26.271c0.912,23.892,5.486,54.378,20.45,78.626c5.598,9.07,15.309,14.485,25.978,14.485 c5.643,0,11.174-1.572,15.995-4.547c6.934-4.277,11.785-11,13.663-18.928c1.877-7.928,0.555-16.112-3.724-23.044 c-6.294-10.198-10.204-26.577-11.21-46.593h148.011c-2.321,9.585-4.893,14.786-6.417,17.258 c-4.279,6.933-5.602,15.117-3.725,23.045c1.878,7.928,6.729,14.65,13.661,18.927c4.819,2.976,10.352,4.548,15.997,4.548 c10.669,0,20.38-5.415,25.978-14.485c8.423-13.649,13.582-31.1,16.638-49.292h7.117c17.921,0,32.5-14.579,32.5-32.5V39.729 C369.684,21.808,355.104,7.229,337.184,7.229z M108.665,255.725c-2.486,1.321-4.022,3.923-3.979,6.738 c0.283,18.331,2.887,43.855,13.683,61.352c2.174,3.522,2.846,7.681,1.892,11.71c-0.954,4.028-3.42,7.444-6.943,9.618 c-2.451,1.513-5.259,2.313-8.118,2.313c-5.428,0-10.367-2.752-13.212-7.362c-15.057-24.398-18.317-56.796-18.401-79.678 c-0.01-2.544-1.307-4.909-3.447-6.283c-11.025-7.081-17.608-19.111-17.608-32.181c0-21.077,17.147-38.225,38.226-38.225 c2.325,0,4.696,0.222,7.049,0.66c2.19,0.41,4.451-0.179,6.166-1.604s2.707-3.539,2.707-5.769v-18.658c0-3.584,2.916-6.5,6.5-6.5 s6.5,2.916,6.5,6.5v35.958c0,1.64,0.537,3.233,1.529,4.538c5.086,6.692,7.774,14.68,7.774,23.1 C128.981,236.12,121.196,249.062,108.665,255.725z M322.443,202.299c-2.196,1.403-3.506,3.846-3.46,6.451 c0.798,45.345-5.709,81.572-18.32,102.009c-2.845,4.61-7.784,7.362-13.212,7.362c-2.86,0-5.667-0.799-8.118-2.313 c-3.523-2.174-5.989-5.59-6.943-9.618c-0.954-4.029-0.282-8.188,1.893-11.711c5.57-9.028,12.443-28.102,13.547-67.696 c0.147-5.297,0.181-10.829,0.099-16.441c-0.04-2.731-1.562-5.226-3.973-6.51c-12.513-6.667-20.286-19.603-20.286-33.758 c0-8.42,2.688-16.407,7.774-23.1c0.992-1.305,1.529-2.898,1.529-4.538v-35.958c0-3.584,2.916-6.5,6.5-6.5s6.5,2.916,6.5,6.5v18.658 c0,2.229,0.992,4.344,2.707,5.769s3.979,2.012,6.166,1.604c2.353-0.438,4.724-0.66,7.049-0.66 c21.078,0,38.226,17.147,38.226,38.225C340.12,183.177,333.512,195.224,322.443,202.299z M354.684,236.844 c0,9.649-7.851,17.5-17.5,17.5h-5.063c1.57-14.509,2.021-28.96,1.912-41.851c11.479-8.683,18.858-21.492,20.65-35.666v60.017 H354.684z M354.684,163.375c-3.343-26.492-26.211-46.99-53.711-46.518v-6.543c0.584-1.024,0.922-2.206,0.922-3.469 c0-1.485-0.465-2.861-1.252-3.996c-1.733-10.13-10.554-17.871-21.17-17.871c-10.276,0-18.88,7.251-20.993,16.902 c-1.271,1.271-2.058,3.026-2.058,4.965c0,1.664,0.582,3.191,1.551,4.395v28.772c-6.096,8.871-9.304,19.209-9.304,30.062 c0,10.295,2.956,20.122,8.257,28.486c-0.322,0.805-0.504,1.681-0.504,2.6c0,3.877,3.141,7.02,7.018,7.02 c0.408,0,0.807-0.042,1.196-0.109c2.526,2.476,5.305,4.727,8.333,6.686c0.016,3.957-0.029,7.847-0.134,11.609 c-0.31,11.11-1.098,20.339-2.139,27.979H132.972c7.013-9.132,11.01-20.44,11.01-32.393c0-5.193-0.742-10.266-2.177-15.118 c1.753-1.276,2.896-3.339,2.896-5.673c0-3.873-3.143-7.016-7.018-7.016c-0.499,0-0.985,0.054-1.455,0.153 c-0.496-0.813-1.008-1.618-1.551-2.408v-33.534c0-11.855-9.645-21.5-21.5-21.5s-21.5,9.645-21.5,21.5v10.379 c-0.308-0.005-0.615-0.008-0.922-0.008c-3.049,0-6.033,0.271-8.943,0.767c-0.122-3.769-3.209-6.788-7.006-6.788 c-3.877,0-7.018,3.143-7.018,7.018c0,1.373,0.4,2.649,1.081,3.73c-9.827,4.453-18.079,11.794-23.641,20.949 c-0.594-0.163-1.216-0.258-1.862-0.258c-3.875,0-7.018,3.143-7.018,7.016c0,2.511,1.322,4.707,3.303,5.947 c-1.372,4.715-2.122,9.692-2.122,14.844c0,11.938,3.957,23.24,10.999,32.393H32.5c-9.649,0-17.5-7.851-17.5-17.5V39.729 c0-9.649,7.851-17.5,17.5-17.5h304.684c9.649,0,17.5,7.851,17.5,17.5V163.375z M169.123,99.828c-3.877,0-7.018,3.143-7.018,7.018 s3.141,7.018,7.018,7.018c3.875,0,7.018-3.143,7.018-7.018S172.998,99.828,169.123,99.828z M326.316,68.391 c-3.875,0-7.018,3.143-7.018,7.016c0,3.877,3.143,7.02,7.018,7.02s7.018-3.143,7.018-7.02 C333.334,71.533,330.191,68.391,326.316,68.391z M200.561,194.145c-3.875,0-7.016,3.143-7.016,7.016c0,3.877,3.141,7.02,7.016,7.02 c3.877,0,7.018-3.143,7.018-7.02C207.578,197.287,204.438,194.145,200.561,194.145z M169.123,68.391 c-3.877,0-7.018,3.143-7.018,7.016c0,3.877,3.141,7.02,7.018,7.02c3.875,0,7.018-3.143,7.018-7.02 C176.141,71.533,172.998,68.391,169.123,68.391z M200.561,162.705c-3.875,0-7.016,3.143-7.016,7.018s3.141,7.018,7.016,7.018 c3.877,0,7.018-3.143,7.018-7.018S204.438,162.705,200.561,162.705z M200.561,68.391c-3.875,0-7.016,3.143-7.016,7.016 c0,3.877,3.141,7.02,7.016,7.02c3.877,0,7.018-3.143,7.018-7.02C207.578,71.533,204.438,68.391,200.561,68.391z M232,194.145 c-3.875,0-7.018,3.143-7.018,7.016c0,3.877,3.143,7.02,7.018,7.02s7.018-3.143,7.018-7.02 C239.018,197.287,235.875,194.145,232,194.145z"
+                ></path>
+              </g>
+            </g>
+          </svg>
+          <u
+            style="
+              font-weight: bold;
+              font-size: larger;
+              margin-left: 20px;
+              text-transform: uppercase;
+            "
+            >Braille Converter</u
+          ></span
+        >
+        <ul class="navbar-nav ml-auto" style="margin-right: 10px">
+          <li class="nav-item active" style="margin-right: 10px">
+            <a
+              class="nav-link"
+              style="color: black; border: 2px solid black"
+              href="/about"
+              >About</a
             >
-              <a class="nav-link" style="color: black" href="/upload"
-                >Braille Image To Text</a
-              >
-            </li>
-          </ul>
-        </div>
-      </nav>
-      <div class="about" style="margin-bottom: 60px;">
-        <h1 style="text-align: center; margin-top: 20px;"><u style="text-transform: uppercase;padding: 9px;font-size: 50px">About</u> </h1>
-        <div>
-            <div style="display: flex;float: none; margin: 10px; padding: 20px;border: 4px solid black ">
-                 
-                <p style="text-align: center; margin-top: 20px; font-size: larger; padding-left: 10px; background-color: white;border: 2px solid black"> Lorem ipsum dolor sit amet consectetur adipisicing elit. Quo maxime recusandae unde voluptatibus eius? Aspernatur, provident ea? Corporis voluptatum fugiat labore iusto et dicta aperiam officiis id asperiores explicabo, harum deleniti rerum ab earum corrupti itaque impedit dolore tempore facilis neque voluptatem. Adipisci, amet dolorum. Facilis repellat voluptatum architecto possimus itaque? Adipisci ea suscipit, animi magni cum delectus magnam quam exercitationem amet dolorum recusandae quod, harum officiis laboriosam at eum? Obcaecati suscipit porro nemo in rerum deserunt perspiciatis tempore rem possimus autem, excepturi fugit quod, nisi explicabo esse. Soluta odit nam sapiente molestias libero ab dolorum totam atque nemo aspernatur!</p>
-            </div>
-            <div style="display: flex;float: none; margin: 10px; padding: 20px;border: 4px solid black ">
-                 
-                <p style="text-align: center; margin-top: 20px; font-size: larger; padding-left: 10px; background-color: white;border: 2px solid black"> Lorem ipsum dolor sit amet consectetur adipisicing elit. Quo maxime recusandae unde voluptatibus eius? Aspernatur, provident ea? Corporis voluptatum fugiat labore iusto et dicta aperiam officiis id asperiores explicabo, harum deleniti rerum ab earum corrupti itaque impedit dolore tempore facilis neque voluptatem. Adipisci, amet dolorum. Facilis repellat voluptatum architecto possimus itaque? Adipisci ea suscipit, animi magni cum delectus magnam quam exercitationem amet dolorum recusandae quod, harum officiis laboriosam at eum? Obcaecati suscipit porro nemo in rerum deserunt perspiciatis tempore rem possimus autem, excepturi fugit quod, nisi explicabo esse. Soluta odit nam sapiente molestias libero ab dolorum totam atque nemo aspernatur!</p>
-            </div>
-            <div style="display: flex;float: none; margin: 10px; padding: 20px;border: 4px solid black ">
-                 
-                <p style="text-align: center; margin-top: 20px; font-size: larger; padding-left: 10px; background-color: white;border: 2px solid black"> Lorem ipsum dolor sit amet consectetur adipisicing elit. Quo maxime recusandae unde voluptatibus eius? Aspernatur, provident ea? Corporis voluptatum fugiat labore iusto et dicta aperiam officiis id asperiores explicabo, harum deleniti rerum ab earum corrupti itaque impedit dolore tempore facilis neque voluptatem. Adipisci, amet dolorum. Facilis repellat voluptatum architecto possimus itaque? Adipisci ea suscipit, animi magni cum delectus magnam quam exercitationem amet dolorum recusandae quod, harum officiis laboriosam at eum? Obcaecati suscipit porro nemo in rerum deserunt perspiciatis tempore rem possimus autem, excepturi fugit quod, nisi explicabo esse. Soluta odit nam sapiente molestias libero ab dolorum totam atque nemo aspernatur!</p>
-            </div>
-            <div style="display: flex;float: none; margin: 10px; padding: 20px;border: 4px solid black ">
-                 
-                <p style="text-align: center; margin-top: 20px; font-size: larger; padding-left: 10px; background-color: white;border: 2px solid black"> Lorem ipsum dolor sit amet consectetur adipisicing elit. Quo maxime recusandae unde voluptatibus eius? Aspernatur, provident ea? Corporis voluptatum fugiat labore iusto et dicta aperiam officiis id asperiores explicabo, harum deleniti rerum ab earum corrupti itaque impedit dolore tempore facilis neque voluptatem. Adipisci, amet dolorum. Facilis repellat voluptatum architecto possimus itaque? Adipisci ea suscipit, animi magni cum delectus magnam quam exercitationem amet dolorum recusandae quod, harum officiis laboriosam at eum? Obcaecati suscipit porro nemo in rerum deserunt perspiciatis tempore rem possimus autem, excepturi fugit quod, nisi explicabo esse. Soluta odit nam sapiente molestias libero ab dolorum totam atque nemo aspernatur!</p>
-            </div>
-            <div style="display: flex;float: none; margin: 10px; padding: 20px;border: 4px solid black ">
-                 
-                <p style="text-align: center; margin-top: 20px; font-size: larger; padding-left: 10px; background-color: white;border: 2px solid black"> Lorem ipsum dolor sit amet consectetur adipisicing elit. Quo maxime recusandae unde voluptatibus eius? Aspernatur, provident ea? Corporis voluptatum fugiat labore iusto et dicta aperiam officiis id asperiores explicabo, harum deleniti rerum ab earum corrupti itaque impedit dolore tempore facilis neque voluptatem. Adipisci, amet dolorum. Facilis repellat voluptatum architecto possimus itaque? Adipisci ea suscipit, animi magni cum delectus magnam quam exercitationem amet dolorum recusandae quod, harum officiis laboriosam at eum? Obcaecati suscipit porro nemo in rerum deserunt perspiciatis tempore rem possimus autem, excepturi fugit quod, nisi explicabo esse. Soluta odit nam sapiente molestias libero ab dolorum totam atque nemo aspernatur!</p>
-            </div>
+          </li>
+          <li
+            class="nav-item active"
+            style="margin-right: 10px; border: 2px solid black"
+          >
+            <a class="nav-link" style="color: black" href="/home"
+              >English To Braille <span class="sr-only"></span
+            ></a>
+          </li>
+          <li
+            class="nav-item active"
+            style="margin-right: 10px; border: 2px solid black"
+          >
+            <a class="nav-link" style="color: black" href="/upload"
+              >Braille Image To Text</a
+            >
+          </li>
+        </ul>
+      </div>
+    </nav>
+    <div class="about" style="margin-bottom: 60px">
+      <h1 style="text-align: center; margin-top: 20px">
+        <u style="text-transform: uppercase; padding: 9px; font-size: 50px"
+          >About</u
+        >
+      </h1>
+      <div>
+        <div style="margin: 10px; padding: 20px;">
+          <div
+            style="
+              margin-top: 20px;
+              font-size: larger;
+              padding-left: 10px;
+              background-color: white;
+              border: 2px solid black;
+            "
+          >
+
+          <span style="font-weight: bold; color: black">Features:</span><br />
+                <ul>
+                  <li>Input Braille characters and obtain the corresponding English translation.</li>
+                  <li>Supports Grade 1 Braille translation, which includes basic alphabet characters.</li>
+                  <li>Interactive user interface with a clean and intuitive design.</li>
+                  <li>Real-time translation as you input Braille characters.</li>
+                  <li>Clear and concise English output for easy understanding.</li>
+                  <li>Our advanced machine learning algorithms accurately identify and interpret Braille
+                    characters, ensuring reliable conversion results.</li>
+                </ul><br />
+
+                <span style="font-weight: bold; color: black">Technologies Used:</span><br />
+                <ul>
+                  <li>Flask: A Python web framework used for building the web application.</li>
+                  <li>Python: The programming language used for the server-side logic and handling the translation process.</li>
+                  <li>HTML: Used for creating the structure and layout of the web pages.</li>
+                  <li>CSS: Used for styling the web pages and enhancing the visual appeal.</li>
+                  <li>JavaScript: Used for implementing client-side functionality and real-time translation.</li>
+                  <li>Experience the convenience of real-time translation as the converter quickly analyzes the uploaded image and provides the corresponding English text output.</li>
+                  <li>
+                    The converter seamlessly handles both Grade 1 (uncontracted) and Grade 2 (contracted) Braille, catering to a wide range of Braille readers' needs.
+                  </li>
+                  <li>Designed with usability in mind, our intuitive and visually appealing interface makes it easy to upload images, view results, and interact with the converter effortlessly.</li>
+                </ul><br />
+            The Braille Image to Text Converter is a cutting-edge web
+            application that harnesses the power of machine learning and
+            computer vision to convert Braille characters from images into
+            readable text. With this intuitive tool, visually impaired
+            individuals and Braille enthusiasts can effortlessly extract
+            information from images containing Braille text and have it
+            instantly translated into English. The main objective of this
+            project is to bring awareness of Braille and to bridge the gap of
+            communication between blind and non-blind people. As there were not
+            enough technologies to help non-blind people interact and
+            communicate with blind people. So, we created a braille-to-text
+            converter that is able to take an image of a line (a word, sentence,
+            or a character) of Braille, recognize it, and output its English
+            counterpart. Using a specific ratio and cropping mechanism , we were
+            able to take an image of a sentence/line of Braille and segment each
+            Braille character out individually. We feed each of these characters
+            into our model and then concatenate the output characters together
+            into an English sentence or word.
+          </div>
+
+          
         </div>
       </div>
-    
-</body>
+    </div>
+  </body>
 </html>
